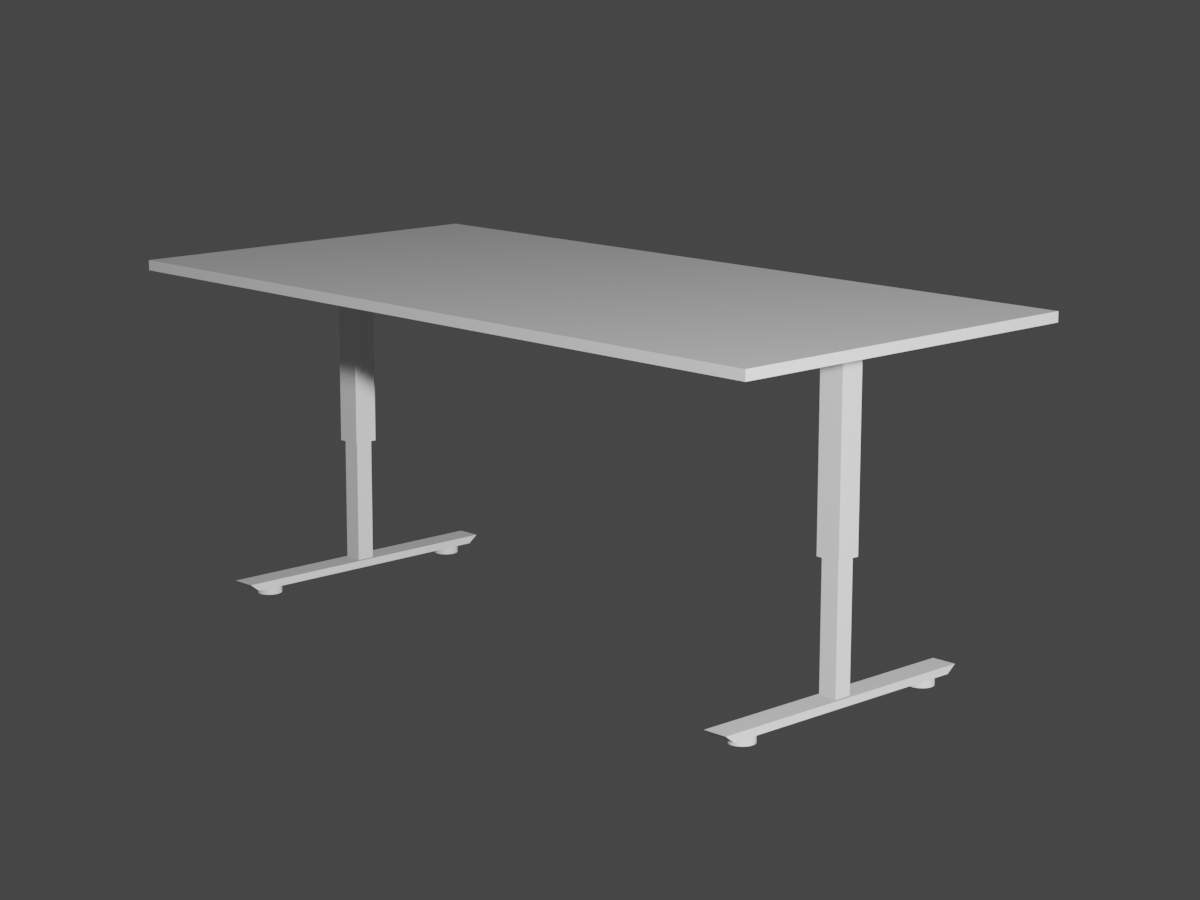
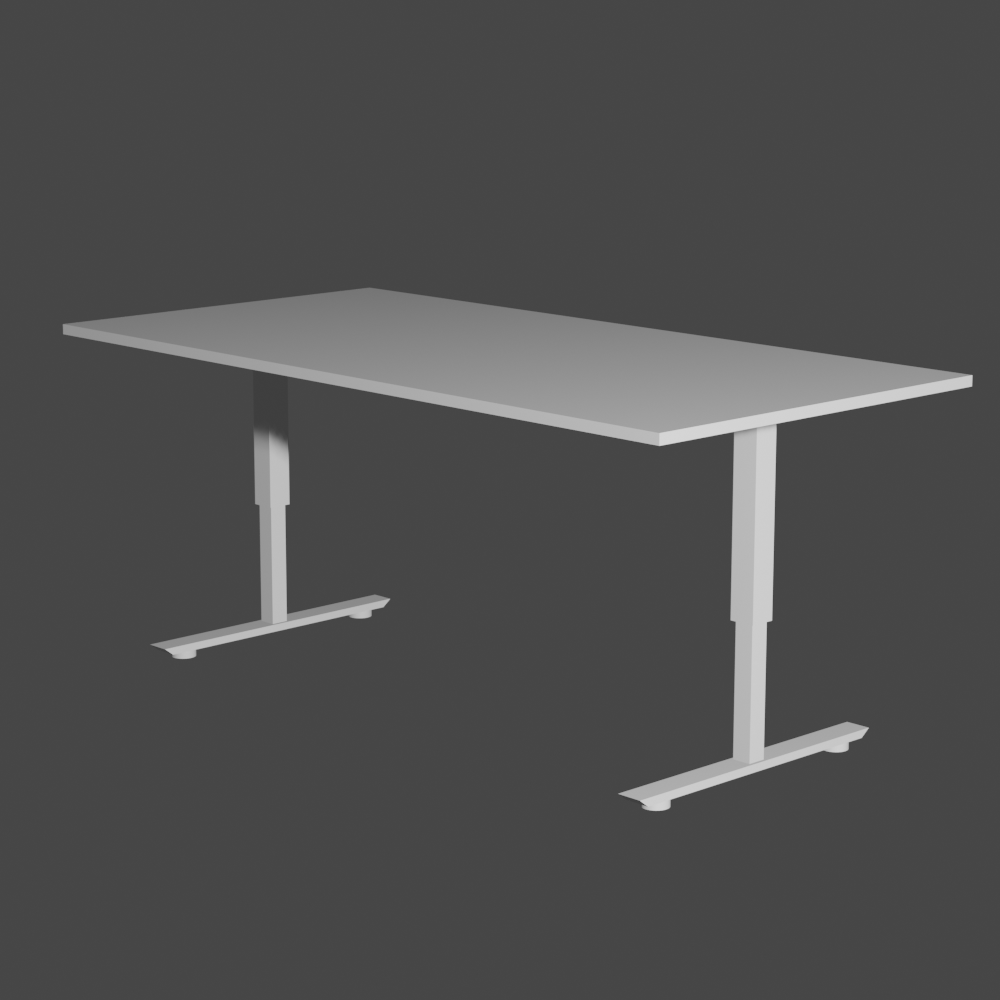
Added overlay in Home page
Changed img scale to match (Execpt apple, missing)

Changed region(s): [[0.062, 0.2489, 0.992, 0.84]]

diff --git a/index.html b/index.html
@@ -18,12 +18,36 @@
         <h1>Home page</h1>
         <section class="Container">
             <!-- Add alt attributes for other images -->
-            <a href="pages/GearPages/Gear_Models.html"><img src="Img/GearImg/Screw_Gear_metalic.png"></a>
-            <a href="#"><img src="Img/OtherImg/TROTTEN_Tabel_1.png"></a>
-            <a href="#"><img src="Img/OtherImg/First_Chair_STEFAN_img.png"></a>
-            <a href="pages/OtherPages/Mug_Models.html"><img src="Img/MugImg/Third_mug.png"></a>
-            <a href="pages/OtherPages/Can_Models.html"><img src="Img/OtherImg/Second_Can_img.png"></a>
-            <a href="#"><img src="Img/OtherImg/First_Apple_Img.png"></a>
+            <div class="container">
+                <a href="pages/GearPages/Gear_Models.html"><img src="Img/GearImg/Screw_Gear_metalic.png"></a>
+                <div class="overlay">Gear models</div>
+            </div>
+
+            <div class="container">
+                <a href="#"><img src="Img/OtherImg/TROTTEN_Tabel_1.png"></a>
+                <div class="overlay">Furniture models</div>
+            </div>
+            
+            <div class="container">
+                <a href="#"><img src="Img/OtherImg/STEFAN_CHAIR_1.png"></a>
+                <div class="overlay">Furniture models</div>
+            </div>
+
+            <div class="container">
+                <a href="pages/OtherPages/Mug_Models.html"><img src="Img/MugImg/Third_mug.png"></a>
+                <div class="overlay">Kitchen models</div>
+            </div>
+
+            <div class="container">
+                <a href="pages/OtherPages/Can_Models.html"><img src="Img/OtherImg/Second_Can_img.png"></a>
+                <div class="overlay">Can models</div>
+            </div>
+
+            <div class="container">
+                <a href="#"><img src="Img/OtherImg/First_Apple_Img.png"></a>
+                <div class="overlay">Fruit models</div>
+            </div>
+
         </section>
     </main>
 

diff --git a/style.css b/style.css
@@ -7,7 +7,6 @@ h1, p {
   color: #EEEEEE;
   font-family: sans-serif;
   margin-top: 0px;
-
 }
 
 p {
@@ -16,6 +15,7 @@ p {
 
 img {
   max-width: 35em;
+  border-radius: 10px;
 }
 
 /* Navigation styles */
@@ -74,8 +74,9 @@ img {
   font-size: 20px;
   padding: 20px;
   text-align: center;
-  transition: .5s ease;
+  transition: .3s ease;
   opacity: 0;
+  border-radius: 5px;
 }
 
 .container:hover .overlay {
